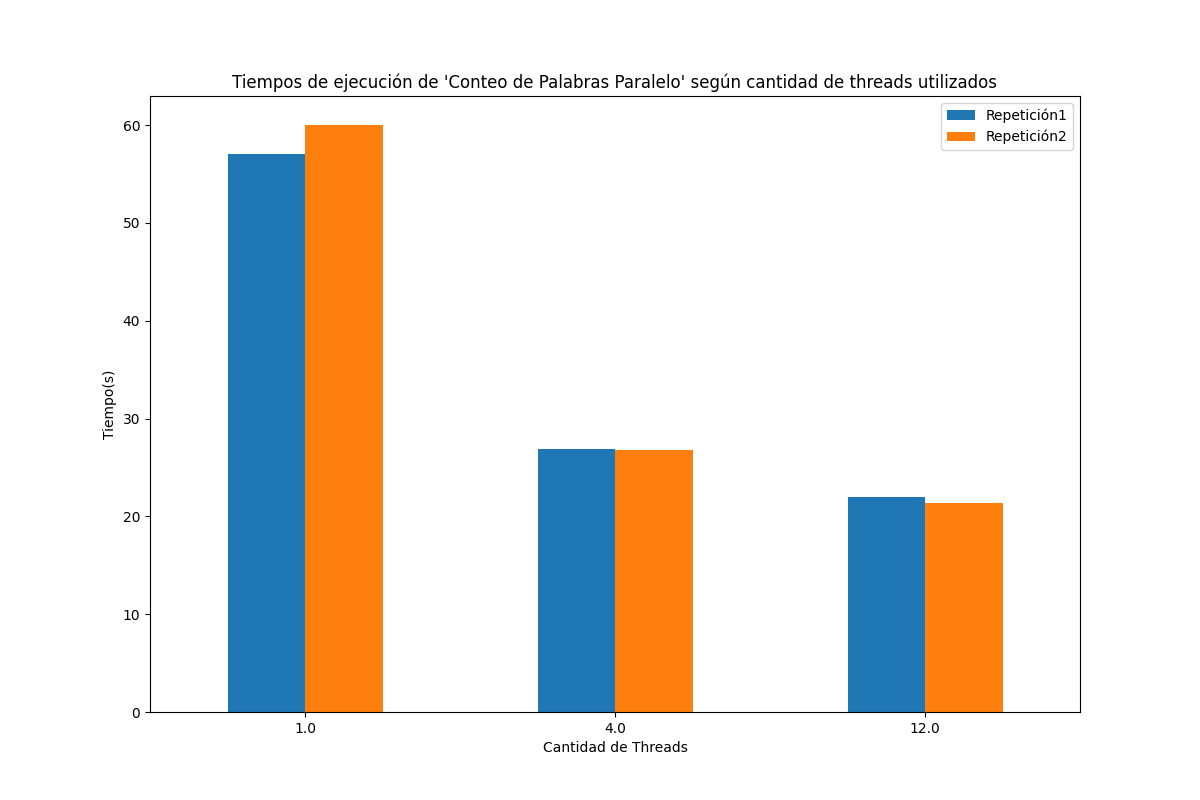
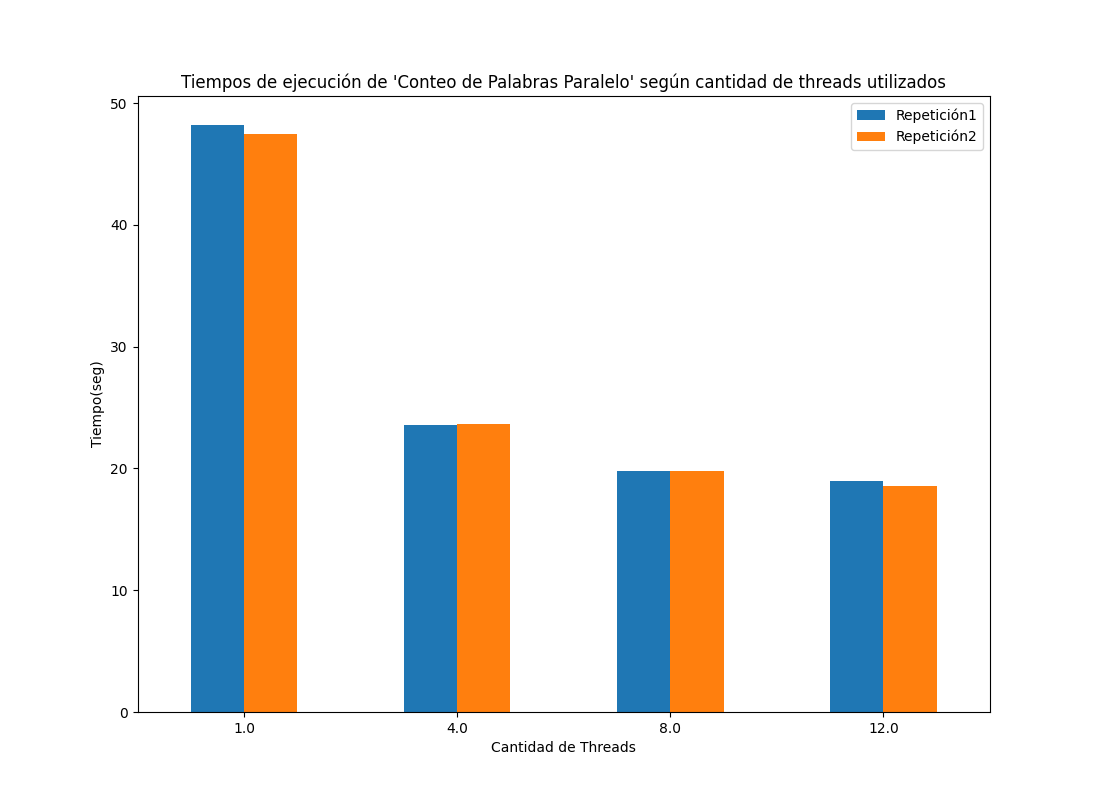
arreglo grafico y readme

diff --git a/analisisPerformance/analizador.py b/analisisPerformance/analizador.py
@@ -19,10 +19,6 @@ columnas.extend(columnasRep)
 
 df = pd.DataFrame(lista, columns = columnas)
 # Genera gráfico
-df.plot(x="Cant_Threads", y=columnasRep, kind="bar", xlabel="Cantidad de Threads", ylabel="Tiempo(s)", rot=0, title="Tiempos de ejecución de 'Conteo de Palabras Paralelo' según cantidad de threads utilizados", figsize=(12,8))
+df.sort_values(by=['Cant_Threads']).plot(x="Cant_Threads", y=columnasRep, kind="bar", xlabel="Cantidad de Threads", ylabel="Tiempo(seg)", rot=0, title="Tiempos de ejecución de 'Conteo de Palabras Paralelo' según cantidad de threads utilizados", figsize=(9+(len(lista)*.5),6+(len(lista)*.5)))
 #Guarda gráfico en el path correspondiente
 plt.savefig(args.grafico[0], format="png")
-
-
-
-

diff --git a/analisisPerformance/ejecutador.cpp b/analisisPerformance/ejecutador.cpp
@@ -149,6 +149,7 @@ int main(int argc, char* argv[]) {
         cerr << "ERROR. Repeticiones debe ser un número entero" << endl;
         exit(EXIT_FAILURE);
     }
+
     vector<int> threads;
     if (!creaArrayThreads(threads, array_threads)){
         exit(EXIT_FAILURE);
@@ -165,13 +166,6 @@ int main(int argc, char* argv[]) {
     comando += " --grafico=" + string(grafico);
     system(comando.c_str());
     cout << "\033[32mAnálisis de Performance realizado correctamente." << endl << "Salida de gráfico en " << grafico << "\033[0m" << endl;
-
-    
-
-
-
-
-
 
     return 0;
 }

diff --git a/main.cpp b/main.cpp
@@ -105,8 +105,6 @@ void analisisPerformance(){
     comando += " -g" + dotenv::getenv("grafico");
     comando += " -a" + dotenv::getenv("analizador");
     system(comando.c_str()); // Ejecuta el comando en el sistema
-
-
 }
 
 

diff --git a/analisisPerformance/readme.md b/analisisPerformance/readme.md
@@ -1,0 +1,68 @@
+# Programa Análisis de Performance
+
+## Descripción
+Este proyecto ofrece un programa que es capaz de analizar los tiempos que demora el programa conteoPalabrasThreads.
+
+## Requisitos
+* Sistema Operativo: Ubuntu 22.04
+* Compilador: g++ 11.4.0
+* Python 3.10 o superior
+* Pandas y Matplotlib
+
+## Instalación / Compilación
+Para la compilación del programa basta con situarse en la carpeta raíz del proyecto y ejecutar en la terminal:
+```bash
+make
+```
+Una vez hecho esto, el programa está compilado y listo para ejecutarse.
+
+## Ejecución
+Para ejecutar el programa correctamente:
+```bash
+./ejecutador -p "[arg1]" -e "[arg2]" -i "[arg3]" -o "[arg4]" -s "[arg5]" -m "[arg6]" -t "[arg7]" -r "[arg8]" -d "[arg9]" -g "[arg10]" -a "[arg11]"
+```
+(Todos los argumentos deben ser ingresados mediante las comillas dobles: ``"argumento"``)
+
+Para ejecutar el programa python por separado:
+```bash
+./python3 analizador.py --datos="[ruta]" --grafico="[ruta]"
+```
+
+Donde los argumentos representan:
+
+| Argumento | Descripción |
+| -------- | ----------- |
+| p | Ruta donde se encuentra el programa ``conteoPalabrasThreads`` |
+| e | Extensión de los libros a procesar |
+| i | Ruta de carpeta de entrada donde se encuentran los libros a procesar |
+| o | Ruta de carpeta de salida donde se generarán los archivos de salida |
+| s | Ruta donde se encuentra el archivo ``stop_words.txt``|
+| m | Ruta donde se generará el archivo ``mapa_archivos.txt`` |
+| t | Array de threads con los que se realizarán las mediciones |
+| r | Repeticiones con las que se realizarán las mediciones |
+| d / datos | Ruta donde se generará el archivo ``datos.txt`` |
+| g / grafico | Ruta donde se generará el archivo ``grafico.png`` |
+| a | Ruta donde se encuentra el programa python ``analizador.py`` donde se genera el gráfico |
+
+### Ejemplo de ejecución
+```bash
+Ejecutando conteo con 1 threads, repetición: 1
+Ejecutando conteo con 1 threads, repetición: 2
+Ejecutando conteo con 4 threads, repetición: 1
+Ejecutando conteo con 4 threads, repetición: 2
+Ejecutando conteo con 8 threads, repetición: 1
+Ejecutando conteo con 8 threads, repetición: 2
+Ejecutando conteo con 12 threads, repetición: 1
+Ejecutando conteo con 12 threads, repetición: 2
+Análisis de Performance realizado correctamente.
+Salida de gráfico en ./analisisPerformance/grafico.png
+```
+Si el programa se ejecuta correctamente, entrega este mensaje y además se genera el archivo ``datos.txt``:
+```bash
+thread1,tiempo1,tiempo2
+thread2,tiempo1,tiempo2
+thread3,tiempo1,tiempo2
+```
+además del grafico  ``grafico.png``.
+
+    

diff --git a/readme.md b/readme.md
@@ -6,6 +6,8 @@ Este proyecto consta de un sistema que presenta un menú de opciones que además
 ## Requisitos
 * Sistema Operativo: Ubuntu 22.04
 * Compilador: g++ 11.4.0
+* Python 3.10 o superior
+* Pandas y Matplotlib
 
 ## Instalación / Compilación
 Para la compilación del programa basta con situarse en la carpeta raíz del proyecto y ejecutar en la terminal:
@@ -43,7 +45,13 @@ cantidad_thread = "[número]"
 mapa_archivos = "[ruta]"
 stop_word = "[ruta]"
 inverted_index = "[ruta]"
-pathInvertedIndex = "[ruta]" 
+pathInvertedIndex = "[ruta]"
+array_threads = "[números separados por ,]"
+repeticiones = "[número]"
+datos = "[ruta]"
+grafico = "[ruta]"
+ejecutador = "[ruta]"
+analizador = "[ruta]"
 ```
 Donde estas variables representan:
 
@@ -60,6 +68,12 @@ Donde estas variables representan:
 | stop_word | Ruta donde se encuentra el archivo ``stop_words.txt`` |
 | inverted_index | Ruta donde se generará el archivo ``inverted_index.INDEX`` |
 | pathInvertedIndex | Ruta donde se encuentra el programa ``invertedIndex`` |
+| array_threads | Números separados por coma que representan los threads que serán analizados en ``Análisis de Performance``|
+| repeticiones | Número que indica la cantidad de repeticiones por cada thread en ``Análisis de Performance`` |
+| datos | Ruta donde se encuentra el archivo ``datos.txt`` donde se guardarán las mediciones |
+| grafico | Ruta donde se encuentra el png ``grafico.png`` con el gráfico resultante |
+| ejecutador | Ruta donde se encuentra el programa ``ejecutador`` |
+| analizador | Ruta donde se encuentra el programa ``analizador`` (python que genera el gráfico) |
 
 ### Ejemplo de ejecución
 ```bash
@@ -86,6 +100,7 @@ Si el usuario que ha ingresado es administrador, se ofrecen adicionalmente estas
 9. Eliminar Usuarios
 10. Conteo Paralelo con Threads
 11. Crear Índice Invertido
+12. Análisis de Performance
 ```
 Cuando ingrese una opción válida, se ejecutará el procedimiento según corresponda.
 
@@ -104,6 +119,7 @@ Las funciones que presenta el programa son:
 9. Eliminar usuarios. En esta opción se pide que se ingrese el nombre del usuario a eliminar (no es posible eliminar administradores).
 10. Conteo Paralelo con Threads. En esta opción se ejecuta el programa ``conteoPalabrasThreads`` (para más información consultar su propio readme.md)
 11. Crear Inverted Index. Se ejecuta el programa ``invertedIndex`` (para más información consultar su propio readme.md)
+12. Análisis de Performance. Se ejecuta el programa ``ejecutador`` (para más información consultar su propio readme.md)
 
 ## Autor y Créditos
 
